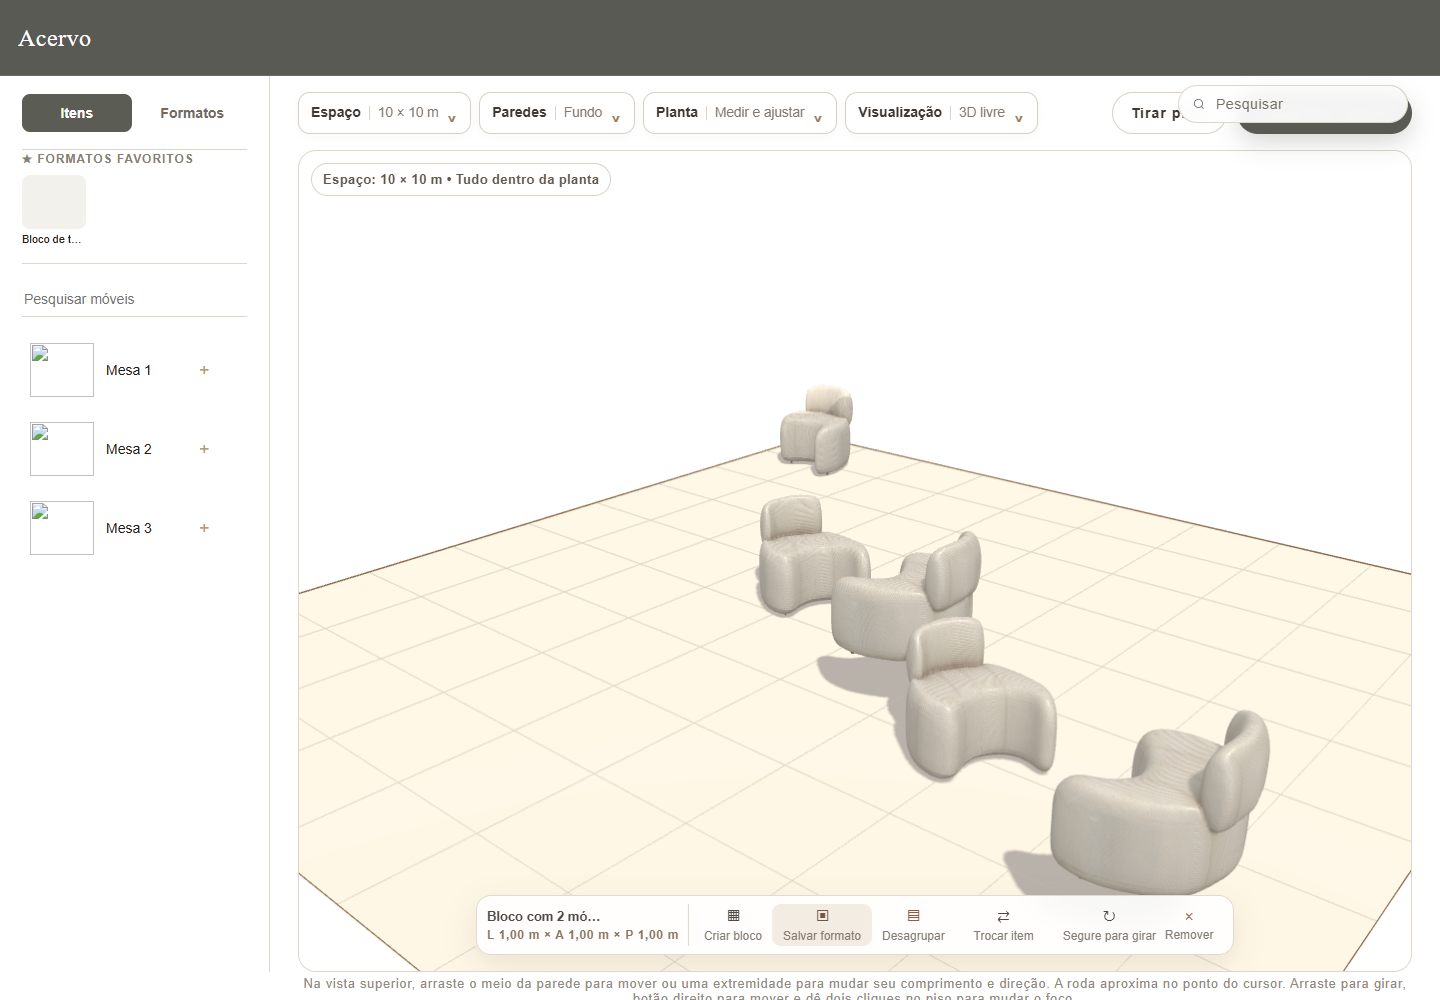
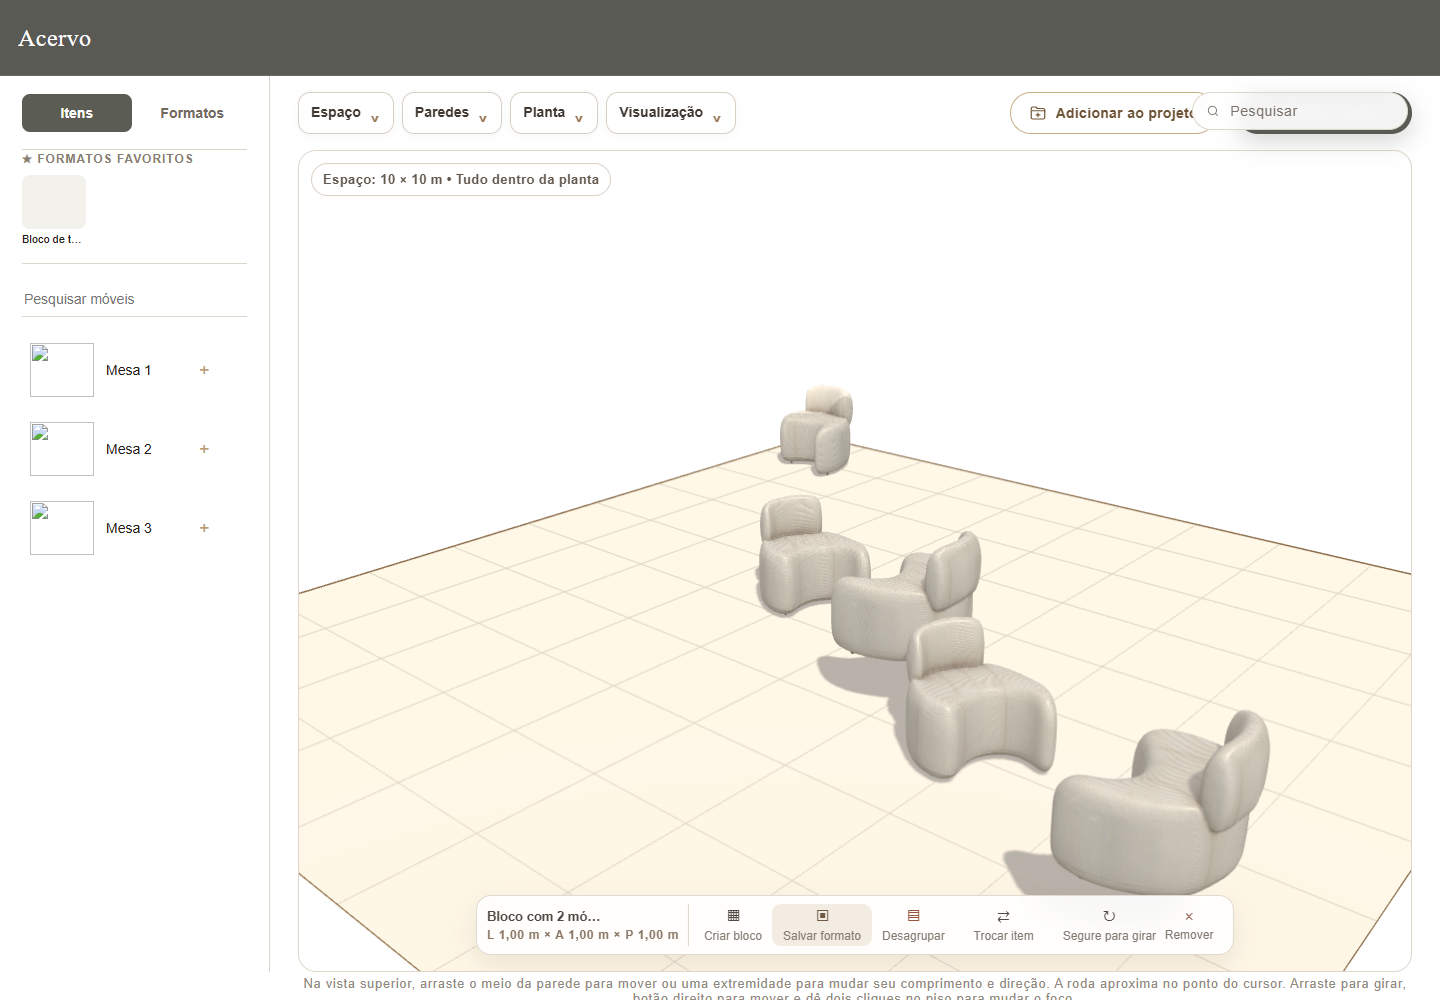
Registro do trabalho (CLAUDE.md) e prints de teste

Changed region(s): [[0.5938, 0.093, 0.9688, 0.155], [0.25, 0.093, 0.5625, 0.124], [0.9688, 0.093, 1.0, 0.124]]

diff --git a/CLAUDE.md b/CLAUDE.md
@@ -120,6 +120,7 @@ Firebase); e **o menu lateral do Portal com todos os itens do Acervo**.
   fecha ao sair do menu, ao abrir outra seção, ao abrir um sistema ou com Esc).
   No celular abre logo abaixo. A flag `flyout: true` nos dados ficou sem efeito
   (todo `grupo` já é extensão).
+  **Painéis do menu sem título** (19/out, pedido: "geral está escrito duas vezes"): o `.flyout-titulo` (nome da seção/subgrupo no topo do painel) fica escondido em todos os painéis — o nome já está no botão que abriu.
   **Não há mais botão "Início" no menu** (pedido do usuário): a logo, centralizada
   no topo, é um `<button class="menu-nome">` que chama `portalIrInicio()`.
   `shell.css` ainda é carregado e tem regras antigas de `.menu-item`/
@@ -9192,7 +9193,9 @@ equipe" se for um aniversariante) com o formulário `data-destinatario="todos"`.
 aceita o id `todos` (exige pelo menos um aniversariante ativo no mês; grava na aba Mural_Parabens com destinatário
 "todos") e devolve `MURAL_parabensTodos_()` = todos os recados do mês (inclusive os antigos por pessoa); o mural devolve
 `parabensTodos`. A fila de pessoas ficou só de exibição (quem faz aniversário hoje em dourado). Fogos reduzidos: um
-lançamento a cada 1,8–3,2 s (era 0,5–1,3 s) e 30–48 faíscas por explosão (era 46–76). **Precisa publicar a Vercel**:
+lançamento a cada 1,8–3,2 s (era 0,5–1,3 s) e 30–48 faíscas por explosão (era 46–76).
+**Fundo cinza em todos os destaques (19/out)** (pedido: "todas com o fundo igual Ideia Premiada, mais clean"): aniversariantes, números e avisos usam o mesmo degradê cinza da Ideia Premiada, sem a sombra escura; textos, fotos, recados e pontos do carrossel ficaram escuros/dourados (bloco no fim de `portal-shell.css`). Os fogos trocaram as cores claras por cores fortes, desenhadas sem brilho somado (`source-over`), senão sumiam no cinza. Versões `?v=20261019-hero-cinza`.
+**Resumo do dia (19/out)**: Descarregamento virou coluna própria depois de Desmontagem (antes caía no visual largo da Agenda interna); a Triagem aparece sempre em duas colunas, "Triagem · Ida" (Separação) e "Triagem · Volta" (Conferência), com "Nada hoje." quando vazia. Todas as colunas numa linha só (`--rd-colunas` = nº de etapas, largura dividida igual; abaixo de 1100px rola de lado). Ordem do fluxo: Triagem · Ida → Carregamento → Montagem → Desmontagem → Descarregamento → Triagem · Volta (também no servidor); Descarregamento com a cor do Carregamento. **Metas por setor clean**: o painel escuro virou cartão branco com o topo no cinza dos destaques, textos escuros, dourado para "em busca" e verde para "atingida" (bloco no fim de `portal-shell.css`, só cor; estrutura igual). Versões `?v=20261019-metas-clean`. **Últimos números sem foguete**: no lugar, `.hero-subida` (SVG em `portalMural.js`): barras douradas sobem uma a uma, a curva ascendente se desenha por cima e um ponto de luz pulsa no topo, com traços finos subindo; as animações só existem com o slide ativo (recomeçam a cada volta), atrás do texto; movimento reduzido mostra parado. Versões `?v=20261019-numeros-subida`. **Precisa publicar a Vercel**:
 sem isso o envio "para todos" é recusado pelo servidor antigo.
 
 ## Operação de ponta a ponta: o pedido abastece o cronograma (out/2026, etapa 1 de várias)
@@ -9384,7 +9387,7 @@ voltar, o próprio sistema sinaliza"). Depois: "a mesma regra na Triagem".
   **o que saiu no carregamento** (etiquetas com `lida_carregamento_em`; se o carregamento não foi bipado, com todas) e
   mostra "Não voltaram X de Y" + a lista, ou "Tudo voltou"; grava `operacao.retorno` com `as_cegas:true`. Reabrir depois
   de concluída mostra o resultado e libera a visão normal.
-- Cronograma: a etapa Triagem (Conferência) mostra "Conferência de retorno · às cegas" até ser concluída.
+- Cronograma: a etapa Triagem (Conferência) não mostra aviso enquanto não é concluída (o "Conferência de retorno · às cegas" saiu a pedido, 19/out); depois mostra "Conferido na volta".
 - `conferencia.css` ganhou `.cf-page [hidden]{display:none!important}` (o `display:block` de `.cf-pedido strong` vencia o `hidden`).
 - Testes: `tests/expedicao-browser.cjs` (ida/volta, cores, às cegas, resultado) e `tests/separacao-cronograma-browser.cjs` (ok 6–7).
 - Triagem com ida e volta (pedido seguinte): colunas "Aguardando triagem / Em triagem / Concluído", cartão de separação
@@ -9520,6 +9523,38 @@ confirmações de sucesso deixam de ser janela (avisos de conflito, perguntas ob
 - **Informações do local saíram da coluna do pedido** (baldeação, escada, caminhão próximo, horário limite, lona): entram na Obs de cada etapa, menos na triagem, depois da observação escrita, separadas por " · " (`obsEtapaCompleta`, nos 3 quadros: computador, agenda do celular e modo app).
 - **Dias largos + arrastar com o mouse** (≥900px): cada dia e a coluna do pedido têm 260px (tabela de 2080px; regras antigas travavam o pedido em 180–190px com max-width), a tabela rola dentro da própria caixa (`.board-wrap`, altura da tela) com cabeçalho e coluna do pedido parados; segurar e puxar rola para o lado (e para cima/baixo), um clique sem arrastar continua abrindo o pedido/etapa (o clique que sai de um arrasto é engolido). Altura mínima das linhas de 150px para 96px, agenda vazia 64px. Teste: `tests/cronograma-arrastar-browser.cjs`.
 - **Número do pedido (só o número, sem "Pedido #") e nome da cliente na mesma linha** na coluna do pedido (grid no `.evento-box`, ≥900px).
+- **Cronograma compacto (19/out)**, pedido com print de referência: cada cartão mostra só etapa + hora (sem bolinha colorida, tirada a pedido), andamento como uma linha de 5px na borda de baixo do cartão (sem contagem nem %, que ficam no texto do mouse; não ocupa espaço), responsável e equipe com ícones, e um selo com quantas informações a mais ele guarda; o resto (caminhão, observações + informações do local, pendência do carregamento, sacolas, free) fica em `.task-extra`, que só aparece quando a linha é aberta pela seta redonda ao lado do nome do pedido (`alternarLinhaCronograma`, não abre o pedido; linhas abertas lembradas em `window.__cronoLinhasAbertas`, sobrevivem à atualização automática). Coluna do pedido mais estreita (210px; os dias continuam 260px), sem ícones, e a seta fica na linha da data, embaixo à direita, sem reservar espaço; cabeçalho de cada dia com "N atividades". Cores das etapas não mudaram (as do print eram outras). Só o quadro do computador; o modo celular/app não mudou. Estilo no fim do `<style id="cabecalho-cronograma">`. Teste: `tests/cronograma-compacto-browser.cjs`. **Cartão de Montagem/Desmontagem não abre mais a operação do App do Montador** (computador, celular e modo app; `abrirExecucaoMontagem` virou um `return`) — pedido do usuário. O caminhão fica na linha do responsável (à direita, com ícone; nome cortado com "…" e inteiro com a linha aberta).
 - **Sucesso sem janela**: `avisoRapido(msg)` (pílula grafite embaixo, some em 2,6 s) em pedido salvo, responsável/equipe/
   caminhão salvos, item salvo/atualizado/excluído, carregamento concluído e alerta enviado/resolvido.
 - Teste: `tests/cronograma-limpeza-browser.cjs`. `permissions.js`/`sidebarMenu.js` em `?v=20261018-free`.
+
+## Painel Logístico: escala automática de equipes, responsáveis e caminhões (19/out/2026)
+Pedido: "um painel logístico onde monta as equipes e distribui os caminhões, de forma automática por parâmetros (igual ao PCP da Tecnoweld); a logística confere e muda; o problema é a mesma pessoa ou caminhão em dois lugares". Tela própria, separada do cronograma ("o cronograma é um painel de visualização"): **Logística > Painel Logístico** (`Modulos/Logistica/PainelLogistico/`, rota `logistica.planejamento.visualizar`; alterar exige `logistica.planejamento.editar`).
+- **Decisões do usuário**: cadastros oficiais do Acervo (as abas Responsaveis/Equipes/Caminhoes da planilha do Cronograma foram **apagadas**); equipe pelo volume do pedido; conflito = horários que se cruzam; caminhão pela capacidade (m³); pessoas = Cadastro de Funcionários + free aprovados; responsável só quem é marcado como líder; a escala entra **direto no cronograma** (sem etapa de confirmação); o automático **nunca mexe no que alguém escolheu** (só preenche vazio).
+- **Quem entra em cada etapa**: campo `funcionarios_acesso.equipe_operacional` (já existia; no cadastro virou "Equipe operacional") + `lider_operacao` (novo, caixinha "Pode ser responsável de etapa (líder)", gravada à parte pela RPC `rh_definir_lider`). Etapa → equipe em Parâmetros (padrão: triagem→triagem, carregamento/descarregamento→carregamento, montagem/desmontagem→montagem).
+- **Motor**: `api/_gas/projetos/cronograma/Escala.js` (roda no motor, lê/grava a aba Cronograma: I caminhão = códigos com ",", J responsável, K equipe com "|"). Serviços novos em `motor.js`: `Acervo.escalaBase()` (pessoas, frota, parâmetros) e `Acervo.volumePedidos(ids)` (Σ quantidade × `itens.volume_cubico`). Regras: janela de cada etapa = hora até hora + duração (montagem/desmontagem ± deslocamento); equipe = ceil(m³ ÷ m³ por pessoa) entre mínimo e máximo (o responsável conta); responsável = líder livre com menos horas na semana; equipe = fixos da equipe (não-líderes primeiro), depois free com vaga confirmada naquela etapa, depois free aprovados; caminhão = menor que comporta o volume (sem caber: o maior livre), montagem usa o do carregamento e descarregamento o da desmontagem do mesmo pedido (caminhão não conta conflito dentro do mesmo pedido). Etapa já passada nunca é preenchida. Pedido sem itens usa o "volume padrão".
+- **Quando roda**: ao salvar o pedido (`CRON_sincronizarPedidoAcervo_` chama `ESC_preencherPedido_`) e no botão "Preencher vazios automaticamente". Abrir o painel NÃO preenche (se a logística esvaziou algo de propósito, não volta sozinho).
+- **Tela**: semana dia a dia; cada etapa com volume, pessoas sugeridas, responsável/equipe/caminhão em chips (× tira, "+ pessoa/caminhão" põe; responsável só entre líderes), avisos (equipe pequena, sem líder, caminhão pequeno, capacidade não cadastrada) e conflitos em vermelho; por dia, quem e quais caminhões estão sem etapa. Salvar com conflito abre "Conflito na escala" → "Salvar mesmo assim" (`ESC_salvarEtapa(id, dados, forcar)`).
+- **Parâmetros** (Gestão > Parâmetros > "Escala automática"): `empresa_logistica_regras.escala` (jsonb): deslocamento, volume padrão, usar free, e por etapa equipe/m³ por pessoa/mín/máx/duração/usa caminhão.
+- **Frota**: os 19 caminhões da planilha foram para `caminhoes` (coluna nova `codigo` = G, M2…, placa provisória "SEM PLACA - <código>", capacidade 0) e os 9 de exemplo foram apagados. **Falta cadastrar medidas do baú (capacidade) de cada um** em Logística > Caminhões — sem isso o painel avisa "capacidade não cadastrada" e escolhe qualquer livre. Essa tela ganhou o campo "Código no cronograma", placa opcional e **editar agora altera o caminhão** (antes criava outro duplicado).
+- **Listas antigas trocadas**: `listarCaminhoes/listarResponsaveis(líderes)/listarEquipes(fixos + free)`, `getCaminhoes/getEquipes` e o envio para Fretes leem o Acervo; `salvarResponsavel/Equipe/Caminhao` só avisam onde cadastrar. App do Montador: lista de nomes = setor Montagem do RH; a senha da aba Senhas aceita o mesmo nome escrito diferente (`ESC_mesmaPessoa_`). `buscarEmpresasTerceirizadas` (app do montador) volta vazio — vinha da aba Equipes.
+- Migration `20261019000100_painel_logistico.sql` (aplicada e registrada). Cópia das listas/caminhões apagados: arquivo de backup salvo fora do repositório na sessão.
+- Testes: `tests/painel-logistico-escala.test.cjs` (motor) e `tests/painel-logistico-browser.cjs` (tela).
+
+## Saída do motor da Vercel: tudo no Supabase, igual à Tecnoweld (Cronograma pronto, falta publicar; out/2026)
+Pedido do usuário (19/out): "quero tirar esse motor que fica no Vercel e quero que fique exatamente igual Tecnoweld". Decisões dele: começar pelo **Cronograma + Painel Logístico + App do Montador + Free**, depois os menores (Fretes, Uber, Controle RH, Portal, Costura), por último Central de Metas e Almoxarifado; **dados existentes não importam** (eram de teste — cada sistema migrado começa vazio); apps de campo mantêm **login próprio**; Montador entra com **nome + PIN do Cadastro de Funcionários**; supervisor de montagem entra pelo **login do Acervo** (permissão); segredos (Google Maps, fotos, rotinas) em **Edge Functions + pg_cron do Supabase**.
+**Como**: (1) abas da planilha viram tabelas; (2) regras viram funções do banco (plpgsql, `security definer`, conferindo `funcionario_pode`/sessão do app); (3) as telas não mudam por fora: `Modulos/Chiavari/gas-cliente.js` passa a resolver cada comando por um adaptador no navegador (`window.ACERVO_LOCAL[fn]`, lendo/gravando no Supabase) e, num sistema já migrado, nunca cai no motor; (4) ao terminar um sistema, ele sai de `api/_gas/projetos.js`.
+**Andamento**:
+- [x] Tabelas `operacao_etapas`, `operacao_etapa_pessoas` (funcionário ou free; papel responsavel/equipe), `operacao_etapa_caminhoes`, `operacao_agenda`, `operacao_alteracoes`, `free_cadastros` (migration `20261019000200_operacao_supabase.sql`). RLS por `logistica.cronograma.*` / `logistica.planejamento.*`.
+- [x] Pedido → etapas no banco: gatilho em `separacoes_pedidos` chama `operacao_sincronizar_pedido` (regra do antigo `CRON_sincronizarPedidoAcervo_`; descarregamento depois da desmontagem, triagem da volta depois do descarregamento; erro no gatilho vira só aviso e nunca impede salvar — `...0400`). O pedido (`js/pedido/pedido.mjs`) não chama mais o `/api/gs`. Em 19/10 as etapas de todos os pedidos existentes foram geradas (162 etapas de 27 pedidos).
+- [x] Escala automática no banco: `operacao_escala_preencher` (só o vazio; líder livre com menos carga; fixos da equipe → free aprovados; menor caminhão que comporta; montagem herda o caminhão do carregamento), `operacao_conflitos`, `operacao_escala_preencher_periodo` (botão do painel), `operacao_escala_preencher_etapas` (etapa nova criada à mão sem ninguém, `...0800`), `operacao_escala_salvar` (grava e recusa com `CONFLITO:[...]` se a pessoa/caminhão cruza horário, a não ser forçado, `...0700`). Padrões em `operacao_regras_escala` quando a empresa não salvou Parâmetros (`...0300`).
+- [x] Apps de campo (`...0500_operacao_apps.sql`): `app_sessoes` (token guardado como sha256, pasta própria no Storage), `operacao_pedidos_info`, `operacao_registros` (equipe/chegada, sacolas, posicionamento, observações, lista assinada/conferida, desmontagem, uniformização), `operacao_apontamentos`, `operacao_trocas`, `operacao_alertas_motorista`, `free_vagas` (+ view `free_vagas_v`), `free_inscricoes`, `free_rh_*`; bucket `operacao-fotos`; funções `mont_*` (login nome + PIN via `rh_pin_conferir`; supervisor por `mont_login_supervisor` = login do Acervo + `logistica.cronograma.montagem`) e `free_*` (cadastro com CPF validado, login CPF+senha bcrypt, QR do líder por HMAC de 1 min). Regras que olhavam a planilha passaram para as tabelas (`...0600`: descarregamento, `cronograma_assinatura`, `operacao_empresa`, `operacao_minhas_permissoes`).
+- [x] **`operacao_pode(empresa, chave)`** (`...1000`): as regras de acesso das tabelas novas chamavam `funcionario_pode(..., auth.uid(), ...)`, que a equipe logada **não pode executar** (fechada na revisão de segurança) — toda leitura daria "permission denied". Todas trocadas por `operacao_pode`. **Tabela nova com RLS: usar `operacao_pode`, nunca `funcionario_pode` direto na política.**
+- [x] **Adaptador `Modulos/Chiavari/operacao-sem-motor.js`** (`window.ACERVO_LOCAL`, ~85 funções com os MESMOS nomes e respostas do antigo código do Apps Script): Cronograma, Painel Logístico (`ESC_*`), Equipe Free (`FREE_adm*`), Painel RH Free (`RH_*`), App do Montador (`MONT_*` e registros), Vagas Free (`FREE_app*`), QR do líder. Telas internas leem as tabelas (RLS); apps de campo só por funções com a sessão do app; fotos sobem do navegador pro Storage. `gas-cliente.js` entrega a chamada ao adaptador quando a função existe e, com `data-sem-motor` no `<script>`, nunca vai ao `/api/gs`. Incluído (`?v=20261019-sem-motor`) em cronograma, montador, free, rh, equipe-free, free-qr e painel-logistico.
+- [x] Montador: "Seu PIN" (o do Cadastro de Funcionários); "Entrar como supervisor" esconde o PIN e pede o login do Acervo no aparelho. Cronograma: triagem sem "Matheus Martins"/"Equipe Galpão" fixos (a escala preenche).
+- [x] Início: "Resumo do dia" pela função `operacao_resumo_dia` (`...0900`; toda a equipe vê, só leitura) — `api/portal-mural.js` não roda mais o `PORTAL_resumoDia_`. Rotina semanal `FECH_registrarIndicadoresSemana` tirada do `vercel.json` (só gravava a aba "Historico Indicadores", que nenhuma tela lê).
+- [x] Testes: `tests/operacao-sem-motor-live.cjs` (`RUN_OPERACAO_LIVE=1`, contra o banco real com usuário/funcionário/free temporários apagados no fim: cronograma, painel com conflito, Equipe Free, RH, App do Montador com PIN, App do Free com foto). Os testes de navegador antigos (`cronograma-*`, `painel-logistico-browser`) trocam o adaptador por `tests/stub-sem-motor.js`, que repassa ao `/api/gs` simulado.
+- [ ] **Publicar** (GitHub Pages + Vercel) — só com o ok do usuário. Até lá o que está no ar é o motor antigo.
+- [ ] Depois de publicado: apagar as abas da planilha do Cronograma (`gs_abas`/`gs_linhas`, planilha `14HX…`). **Ainda não** porque Central de Metas (`central/OperacaoCentral.js`, `operacaoCronogramaPorPedido_`) e os números do Mural (`portal/Mural.js`) no motor leem essa planilha — eles mudam quando esses sistemas saírem do motor. O projeto `cronograma` de `api/_gas/projetos.js` fica até lá pelo mesmo motivo.
+- [ ] Próximos sistemas: Fretes, Uber, Controle RH, Portal, Costura; por último Central de Metas e Almoxarifado.
+**Pendências do usuário**: marcar os líderes no Cadastro de Funcionários; dar PIN aos montadores; preencher a capacidade (m³) dos caminhões; os free precisam se cadastrar de novo no app (cadastros antigos não vieram).
